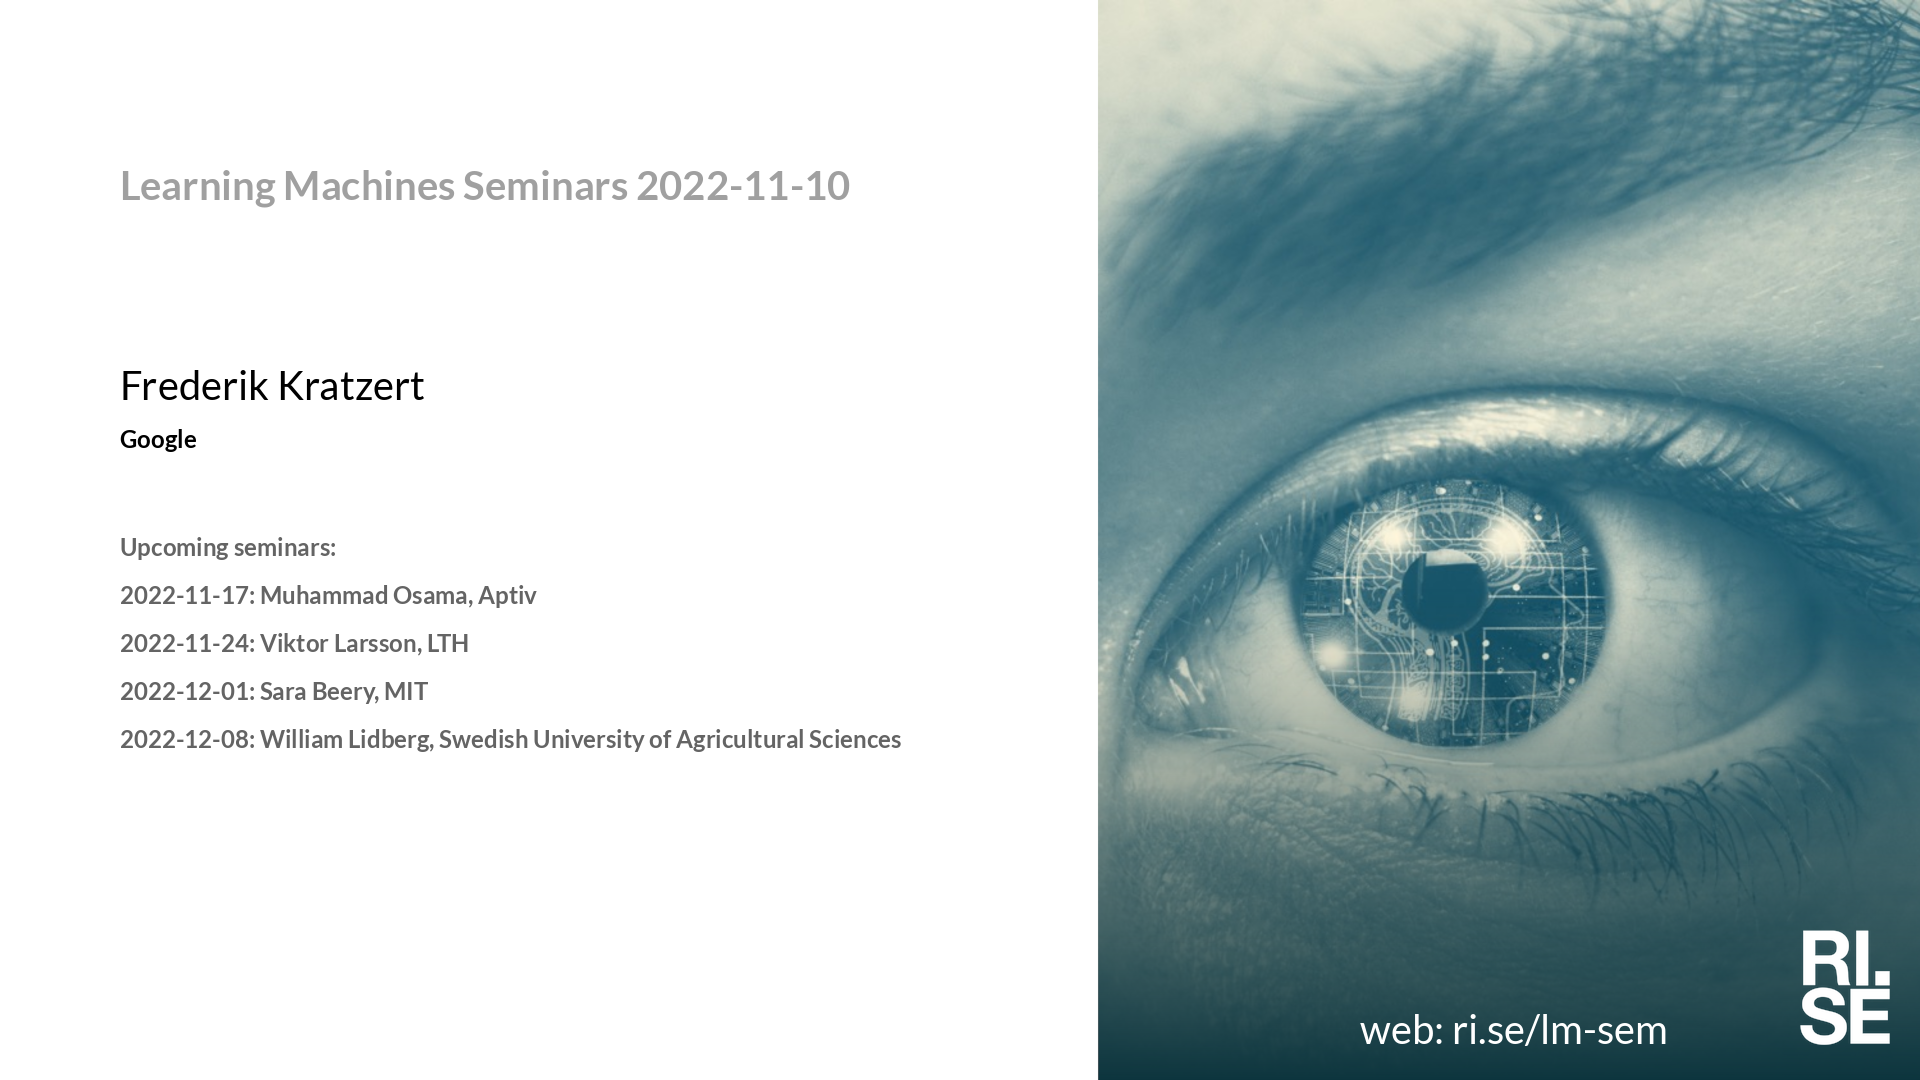
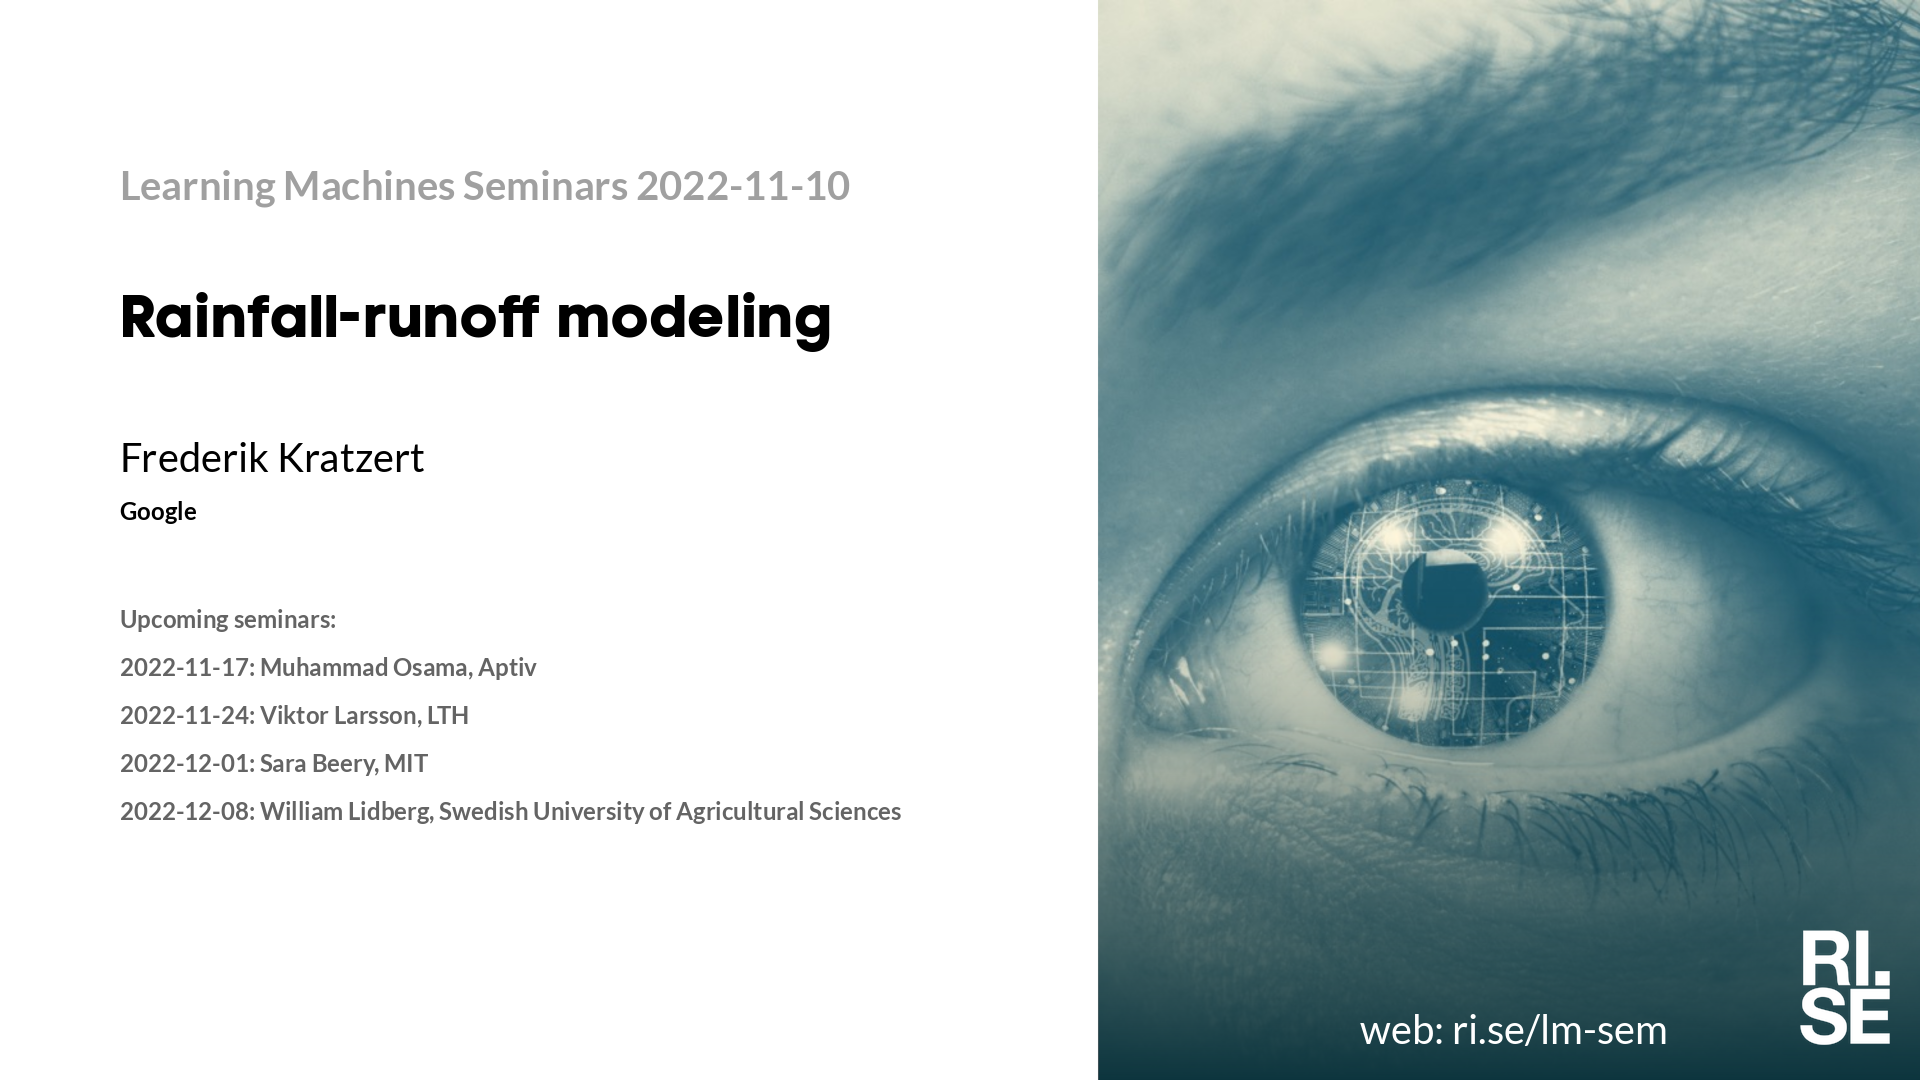
Updated plan on web site.

Changed region(s): [[0.0625, 0.4583, 0.4688, 0.7639], [0.0625, 0.275, 0.4375, 0.3667], [0.0625, 0.3972, 0.2188, 0.4583]]

diff --git a/lm/index.md b/lm/index.md
@@ -1,11 +1,10 @@
 <style type="text/css" scoped>
 td, th {border: 1px solid #ccc; padding: 0.6em;}
 table {border-collapse: collapse;}
-</style># Learning Machines Plan 2022-10-19
+</style># Learning Machines Plan 2022-10-20
 
 | date | speaker                                   | photo | shareable | meeting backdrop | youtube thumbnail | comment        |
 | ---- | ----------------------------------------- | ----- | ----- | ----- | ----- | -------------- |
-|  2022-10-20  |  [Hedvig Kjellström, KTH](2022-10-20.md)  |  [photo](photo-hedvig-kjellstrom.jpg)  |  [social media ](social-media-hedvig-kjellstrom.png)  |  [meeting backdrop ](meeting-backdrop-hedvig-kjellstrom.png)  |  [youtube thumbnail ](youtube-thumbnail-hedvig-kjellstrom.png)  |  (confirmed)     |
 |  2022-10-27  |  [Ricardo Vinuesa, KTH](2022-10-27.md)  |  [photo](photo-ricardo-vinuesa.jpg)  |  [social media ](social-media-ricardo-vinuesa.png)  |  [meeting backdrop ](meeting-backdrop-ricardo-vinuesa.png)  |  [youtube thumbnail ](youtube-thumbnail-ricardo-vinuesa.png)  |  (confirmed)     |
 | <span style="color:red"> 2022-11-03 </span> | <span style="color:red"> Höstlov </span> | <span style="color:red">  </span> | <span style="color:red">  </span> | <span style="color:red">  </span> | <span style="color:red">  </span> | <span style="color:red"> (cancelled) </span> |
 |  2022-11-10  |  [Frederik Kratzert, Google](2022-11-10.md)  |  [photo](photo-frederik-kratzert.jpg)  |  [social media ](social-media-frederik-kratzert.png)  |  [meeting backdrop ](meeting-backdrop-frederik-kratzert.png)  |  [youtube thumbnail ](youtube-thumbnail-frederik-kratzert.png)  |  (confirmed)     |

diff --git a/lm/2022-11-10.md b/lm/2022-11-10.md
@@ -1,12 +1,12 @@
 Welcome to this week's Learning Machines seminar.
 
-**Title:** 
+**Title:** Long Short-Term Memory networks (LSTMs) for rainfall-runoff modeling
 
 **Speaker:** Frederik Kratzert, Google
 
-**Abstract:** 
+**Abstract:** In this talk, I will talk about my research over the last few years on LSTMs for rainfall-runoff modelling. We will cover a short introduction about the model, talk about why it is such a good fit for this application, and I will share insights from various studies of the recent past. Additionally, we will revisit the best practices that you should follow, in case you are interested in applying LSTMs in your research/work.
 
-**About the speaker:** 
+**About the speaker:** Frederik did his Master in environmental engineering and his PhD in machine learning with a focus on the intersection of these two fields. After his PhD, Frederik joined Google as a visiting faculty researcher, where he is working in Google's Flood Forecasting team, building a global flood warning system.
 
 **Location:** This is an online seminar. Connect using Zoom.
 
